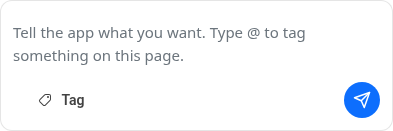
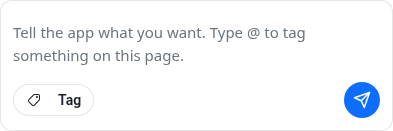
fix(ask): style the Tag pill on the fluent-button host
Fluent v5 fluent-button has no control part. Its host keeps min-width 96px
with centered content, so the ::part(control) pill never rendered and the
chip sat about 25px right of the textarea text. Style the host, and assert
that the chip is within 4px of the text start. Review round 1-2 artifacts
and the clean disposition are under review/.

Changed region(s): [[0.0611, 0.7023, 0.2137, 0.8244], [0.0611, 0.855, 0.2137, 0.8855], [0.0611, 0.6412, 0.2137, 0.6718]]

diff --git a/source/container-apps/web/projects/web-spa/features/application/modals/agent-ask/AgentAsk.razor.css b/source/container-apps/web/projects/web-spa/features/application/modals/agent-ask/AgentAsk.razor.css
@@ -170,10 +170,22 @@
   padding-inline: 0;
 }
 
+/* Fluent v5 fluent-button styles its :host (min-width 96px, centered content) and has no
+   control part, so the pill is styled on the host. min-width 0 and flex-start keep the
+   chip's left edge on the textarea's text start. */
 .twe-agent-ask ::deep .sc-ai-input > .twe-agent-ask__tag {
   grid-area: lead;
   justify-self: start;
   align-self: center;
+  min-width: 0;
+  min-height: 2rem;
+  justify-content: flex-start;
+  column-gap: var(--twe-space-2);
+  padding-inline: var(--twe-space-3);
+  border: 1px solid var(--twe-rule);
+  border-radius: 999px;
+  background: var(--twe-paper);
+  color: var(--twe-ink);
   cursor: pointer;
 }
 
@@ -181,16 +193,6 @@
   max-width: none;
   width: 16px;
   height: 16px;
-}
-
-.twe-agent-ask ::deep .sc-ai-input > .twe-agent-ask__tag::part(control) {
-  border: 1px solid var(--twe-rule);
-  border-radius: 999px;
-  background: var(--twe-paper);
-  color: var(--twe-ink);
-  column-gap: var(--twe-space-2);
-  padding-inline: var(--twe-space-3);
-  min-height: 2rem;
 }
 
 .twe-agent-ask ::deep .sc-ai-input > .sc-ai-input__send {

diff --git a/tests/container-apps/web/web-spa-playwright-tests/ask-surface-playwright-tests.cs b/tests/container-apps/web/web-spa-playwright-tests/ask-surface-playwright-tests.cs
@@ -19,8 +19,8 @@
 // Closed, the layout is the viewport. Below 880 and when expanded, the panel covers the
 // viewport. Shots are written beside task 296.
 // Composer (task 307): the inner textarea.sc-ai-input__textarea starts inside the
-// .sc-ai-input padding (about 16px), its width is at least 90% of that box, and Tag
-// and send sit below it. Shift+Enter grows the field; Enter sends. Those shots are
+// .sc-ai-input padding (12px, --twe-space-3), its width is at least 90% of that box, and Tag
+// and send sit below it. The Tag chip's left edge is within 4px of the textarea text start. Shift+Enter grows the field; Enter sends. Those shots are
 // written beside task 307.
 // Chromium install retries with the ubuntu24.04 build when the host distro is newer than
 // Playwright 1.55's platform list.
@@ -277,6 +277,9 @@ public class AskSurface_Given_Wasm
     ((double)sendBox.Y).ShouldBeGreaterThanOrEqualTo(areaBox.Y + areaBox.Height - 2);
     ((double)(tagBox.X - composerBox.X)).ShouldBeGreaterThanOrEqualTo(0);
     ((double)(tagBox.X - composerBox.X)).ShouldBeLessThanOrEqualTo(24);
+    double textStart = areaBox.X + await textarea.EvaluateAsync<double>(
+      "element => parseFloat(getComputedStyle(element).paddingLeft)");
+    Math.Abs(tagBox.X - textStart).ShouldBeLessThanOrEqualTo(4);
     double sendInset = composerBox.X + composerBox.Width - (sendBox.X + sendBox.Width);
     sendInset.ShouldBeGreaterThanOrEqualTo(0);
     sendInset.ShouldBeLessThanOrEqualTo(24);

diff --git a/kanban/to-do/307-ask-composer-full-width-input-with-tag-and-send-in-a-footer-row-cloudflare-layout/task.md b/kanban/to-do/307-ask-composer-full-width-input-with-tag-and-send-in-a-footer-row-cloudflare-layout/task.md
@@ -84,6 +84,7 @@ something on this page in your message." Give it a clear label and tooltip, e.g.
 ## Session
 
 - Created: 742019 (2026-10-11)
+- Review oracle: claude-opus-5-5 (headless ganda task work), effort 2, roster general
 
 ## Notes
 
@@ -105,7 +106,7 @@ The Ask composer still uses the library `MessageInput`. Scoped CSS in `AgentAsk.
 
 Tag (`data-qa=AskTagResource`) calls `OpenResources()`, which sets `ResourceMenuOpen = true`. Typing `@` anywhere in the panel does the same (`OnKeyDown`). That shows `AskResourceMenu`: the typed resources on the current page (`page_context` via `AskResourceReferences.FromPageContext`), or "Nothing on this page to tag." Choosing a row inserts that resource's `@` token at the caret (`AskAiJsModule.InsertReferenceAsync` → `source/features/ask-ai.ts` `InsertReference`, which replaces a just-typed `@` instead of doubling it) and closes the menu. Tag means "reference something on this page in your message."
 
-The control is a pill: a tag icon plus the label "Tag". `Title`, `Tooltip`, and `aria-label` are "Tag a resource on this page (@)". The placeholder is "Tell the app what you want. Type @ to tag something on this page."
+The control is a bordered pill: a tag icon plus the label "Tag". Its left edge sits on the textarea's text start. Fluent v5 `fluent-button` has no `control` part, so the pill is styled on the host (`min-width: 0`, `justify-content: flex-start`). `Title`, `Tooltip`, and `aria-label` are "Tag a resource on this page (@)". The placeholder is "Tell the app what you want. Type @ to tag something on this page."
 
 ### Layout
 
@@ -116,7 +117,7 @@ Playwright measured the inner `textarea.sc-ai-input__textarea` against `.twe-age
 - Left inset (`textarea.X − composer.X`) is in [4, 20] px. Container padding is `--twe-space-3` (12px). The textarea's `padding-inline` is 0, so the placeholder starts at that padding.
 - Textarea width is at least 90% of the composer width.
 - Tag's top and send's top are at or below the textarea bottom (2px tolerance).
-- Tag's left inset is in [0, 24] px. Send's right inset is in [0, 24] px. Send sits to the right of Tag.
+- Tag's left inset is in [0, 24] px, and its left edge is within 4px of the textarea text start (textarea left + computed padding-left). Send's right inset is in [0, 24] px. Send sits to the right of Tag.
 - The Tag icon is at least 12px wide.
 - Three Shift+Enter lines grew the textarea by at least 8px (`field-sizing: content`, min-height 3rem, max-height 10rem).
 - Enter sent. A user bubble containing "one" and a `page_context:` answer appeared, then the textarea enabled again.
@@ -144,3 +145,12 @@ Run that from the project directory. Its `global.json` selects Microsoft.Testing
 - `ask-composer-before.png` shows the placeholder starting at the left padding, the Tag pill on the footer left, and send on the footer right.
 - `ask-composer-after.png` shows three lines of text with Tag and send still on the footer.
 - Tag still opens `AskResourceEmpty` on the home page, and `@` insertion still replaces a typed `@`.
+
+### Review disposition
+
+- Effort 2, roster `general`, 2 rounds. Framework: `review/review-framework.md`. Last merged: `review/round-2/merged.md`. Disposition: `review/disposition.md`.
+- Final counts: bug 2 fixed, suggestion 0, nit 1 fixed. 0 open, 0 wontfix. Outcome: **clean**.
+- M1: the Tag pill CSS targeted `::part(control)`, which Fluent v5 `fluent-button` does not have. The host's 96px centered minimum indented the chip about 25px (Steven's steering note). Fixed by styling the host.
+- M2: added the steering assertion that the chip is within 4px of the textarea text start.
+- M3: the comment said 16px. The padding is 12px.
+- After the fixes, `./bin/dev build` reported 0 warnings and 0 errors, and the Playwright project ran 7 passed and 0 failed. The `kanban/done/295-*`, `296-*`, and `302-*` screenshots the run rewrote were restored, not committed.

diff --git a/kanban/to-do/307-ask-composer-full-width-input-with-tag-and-send-in-a-footer-row-cloudflare-layout/review/round-1/general.md b/kanban/to-do/307-ask-composer-full-width-input-with-tag-and-send-in-a-footer-row-cloudflare-layout/review/round-1/general.md
@@ -1,0 +1,31 @@
+# Round 1 — general
+**Date:** 2026-10-11
+**Scope reviewed:** branch vs master (AgentAsk.razor, AgentAsk.razor.css, ask-surface-playwright-tests.cs, task.md, screenshots)
+
+## Summary
+
+The change turns the library `MessageInput` flex row into a two-row grid with scoped CSS: full-width
+textarea on top, Tag and send on a footer row. It adds a Tag icon, tooltip, and aria-label, and a
+Playwright layout test. The grid and textarea parts are sound. The Tag pill styling is dead CSS, and the
+steering requirement that the chip align with the textarea text start is neither implemented nor asserted.
+`ask-composer-before.png` shows the chip with no pill border and the icon about 25px right of the text start.
+
+## Issues
+
+### Issue 1 — Severity: bug
+- File: source/container-apps/web/projects/web-spa/features/application/modals/agent-ask/AgentAsk.razor.css:186
+- Description: `.twe-agent-ask__tag::part(control)` matches nothing. In Fluent UI v5 (5.0.0 `lib.module.js`), `fluent-button` exposes only `start`, `content`, and `end` parts. Its box styles sit on `:host`: `min-width: 96px`, `justify-content: center`, `padding: 0 spacingHorizontalM`, and the appearance border. So the border, radius, and padding-inline never apply. The 96px centered minimum also pushes the icon and label about 25px past the textarea text start, which is the misalignment Steven reported.
+- Suggestion: Style the host directly through the anchored `::deep` rule (border, 999px radius, `min-width: 0`, `justify-content: flex-start`, padding-inline, min-height), and drop the `::part(control)` rule.
+- Status: open
+
+### Issue 2 — Severity: bug
+- File: tests/container-apps/web/web-spa-playwright-tests/ask-surface-playwright-tests.cs:281
+- Description: Steering 2026-10-11 22:12 asks for a Playwright assertion that the Tag chip's left edge is within a few px of the textarea's text start (textarea left + padding-left). The test checks only a 0–24px inset from the composer edge, and that range accepted the misaligned chip.
+- Suggestion: Read the textarea's computed `padding-left` and assert |tag.X − (textarea.X + padding-left)| ≤ 4.
+- Status: open
+
+### Issue 3 — Severity: nit
+- File: tests/container-apps/web/web-spa-playwright-tests/ask-surface-playwright-tests.cs:21
+- Description: The Purpose comment says the textarea starts "about 16px" inside the box. The CSS padding is `--twe-space-3` (12px).
+- Suggestion: Say 12px (`--twe-space-3`).
+- Status: open

diff --git a/kanban/to-do/307-ask-composer-full-width-input-with-tag-and-send-in-a-footer-row-cloudflare-layout/review/round-1/merged.md b/kanban/to-do/307-ask-composer-full-width-input-with-tag-and-send-in-a-footer-row-cloudflare-layout/review/round-1/merged.md
@@ -1,0 +1,38 @@
+# Round 1 — merged findings
+**Date:** 2026-10-11
+**Sources:** general
+
+## Counts
+
+| Severity | open | fixed | wontfix |
+|----------|------|-------|---------|
+| bug | 0 | 2 | 0 |
+| suggestion | 0 | 0 | 0 |
+| nit | 0 | 1 | 0 |
+
+## Issues
+
+### M1 — Severity: bug — Status: fixed
+- File: source/container-apps/web/projects/web-spa/features/application/modals/agent-ask/AgentAsk.razor.css:186
+- Description: `.twe-agent-ask__tag::part(control)` is dead CSS. Fluent v5 `fluent-button` has no `control` part, and its host keeps `min-width: 96px` with `justify-content: center`. The pill never rendered, and the label sat about 25px right of the text start.
+- Suggestion: Style the host directly and drop `::part(control)`.
+- Source: general
+- Disposition notes: Fixed. Moved the pill styles onto the anchored `::deep .sc-ai-input > .twe-agent-ask__tag` host rule, added `min-width: 0` and `justify-content: flex-start`, removed the `::part(control)` rule, and added a comment. The new `ask-composer-before.png` shows the bordered pill flush with the text start.
+
+### M2 — Severity: bug — Status: fixed
+- File: tests/container-apps/web/web-spa-playwright-tests/ask-surface-playwright-tests.cs:281
+- Description: The steering-required assertion (Tag chip left edge within a few px of textarea left + padding-left) was missing.
+- Suggestion: Assert |tag.X − (textarea.X + computed padding-left)| ≤ 4.
+- Source: general
+- Disposition notes: Fixed. `AssertComposerLayoutAsync` reads the computed `padding-left` and asserts the chip is within 4px of the text start. The test passes.
+
+### M3 — Severity: nit — Status: fixed
+- File: tests/container-apps/web/web-spa-playwright-tests/ask-surface-playwright-tests.cs:21
+- Description: The Purpose comment said "about 16px". The padding is 12px.
+- Suggestion: Say 12px.
+- Source: general
+- Disposition notes: Fixed. The comment now says 12px (`--twe-space-3`) and describes the new chip alignment check.
+
+## Duplicates / conflicts
+
+- M1 and M2 come from the same steering note. M1 is the product cause and M2 is the missing guard. Kept separate.

diff --git a/kanban/to-do/307-ask-composer-full-width-input-with-tag-and-send-in-a-footer-row-cloudflare-layout/review/review-framework.md b/kanban/to-do/307-ask-composer-full-width-input-with-tag-and-send-in-a-footer-row-cloudflare-layout/review/review-framework.md
@@ -1,0 +1,27 @@
+# Review framework
+
+## Budget (by-diff)
+
+- Lines changed: 259
+- Effort: 2
+- TCB hits: none
+- Roster axes: general
+- Turn cap: 120 (--max-turns; cursor uncapped)
+
+# Review framework — task 307
+
+**Date:** 2026-10-11
+**Host task:** kanban/to-do/307-ask-composer-full-width-input-with-tag-and-send-in-a-footer-row-cloudflare-layout/
+**Diff scope:** branch `task/307-ask-composer-full-width-input-with-tag-and-send-in` vs `master` (commit 5a8986c16)
+**Plan / brief:** task.md Requirements + Steering 2026-10-11 22:12 (Tag chip aligned with textarea text start, with a Playwright assertion)
+**Effort:** 2 (by-diff budget); roster axes: general
+**Reviewer roster:** general
+**Session IDs:** review oracle (claude-opus-5-5, headless ganda task work)
+
+## Ground rules
+
+- Reviewers are read-only on product code; they write only under `review/round-N/`
+- Severity: bug | suggestion | nit — Status starts as open
+- Do not invent issues to fill space; zero issues is a valid outcome
+- Address the diff and surrounding call sites; re-verify falsifiable claims against the repo
+- Prior rounds are immutable; new work goes in `round-(N+1)/`

diff --git a/kanban/to-do/307-ask-composer-full-width-input-with-tag-and-send-in-a-footer-row-cloudflare-layout/review/round-2/general.md b/kanban/to-do/307-ask-composer-full-width-input-with-tag-and-send-in-a-footer-row-cloudflare-layout/review/round-2/general.md
@@ -1,0 +1,11 @@
+# Round 2 — general
+**Date:** 2026-10-11
+**Scope reviewed:** fix delta for AgentAsk.razor.css and ask-surface-playwright-tests.cs on top of 5a8986c16
+
+## Summary
+
+Re-checked M1–M3 against the post-fix diff. The Tag pill is styled on the `fluent-button` host. Light-DOM rules beat the component's `:host` rules, so the 96px centered minimum is overridden. The rendered shot shows a bordered pill whose left edge sits on the textarea text start. The new assertion keeps that alignment in place. `./bin/dev build` reported 0 warnings and 0 errors. The Playwright project ran 7 passed and 0 failed. The fix delta has no new defects.
+
+## Issues
+
+<!-- none -->

diff --git a/kanban/to-do/307-ask-composer-full-width-input-with-tag-and-send-in-a-footer-row-cloudflare-layout/review/disposition.md b/kanban/to-do/307-ask-composer-full-width-input-with-tag-and-send-in-a-footer-row-cloudflare-layout/review/disposition.md
@@ -1,0 +1,21 @@
+# Disposition — task 307
+
+**Date:** 2026-10-11
+**Outcome:** clean
+**Rounds:** 2
+**Final open count:** 0
+
+## Summary
+
+Round 1 (general, effort 2) raised 2 bugs and 1 nit. The bugs were dead `::part(control)` pill CSS on
+the Fluent v5 button (its host's 96px centered minimum indented the Tag chip about 25px) and the
+missing steering assertion for chip/text-start alignment. The nit was a stale 16px comment. All three
+were fixed on this task. Round 2 verified them, and the 7 Playwright tests passed.
+
+## Exception log (if accepted-exceptions)
+
+None.
+
+## Escalations
+
+None.

diff --git a/kanban/to-do/307-ask-composer-full-width-input-with-tag-and-send-in-a-footer-row-cloudflare-layout/review/round-2/merged.md b/kanban/to-do/307-ask-composer-full-width-input-with-tag-and-send-in-a-footer-row-cloudflare-layout/review/round-2/merged.md
@@ -1,0 +1,21 @@
+# Round 2 — merged findings
+**Date:** 2026-10-11
+**Sources:** general
+
+## Counts
+
+| Severity | open | fixed | wontfix |
+|----------|------|-------|---------|
+| bug | 0 | 2 | 0 |
+| suggestion | 0 | 0 | 0 |
+| nit | 0 | 1 | 0 |
+
+## Resolved prior
+
+- M1 (bug): fixed and verified. The pill styles are on the host, and the shot shows the bordered pill flush with the text start.
+- M2 (bug): fixed and verified. The chip-to-text-start ≤ 4px assertion passes.
+- M3 (nit): fixed and verified. The comment says 12px.
+
+## Issues
+
+None new.
